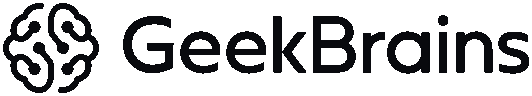
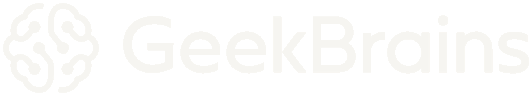
Made dark theme

Changed region(s): [[0.0, 0.0312, 1.0, 0.9688], [0.812, 0.1562, 0.8421, 0.2812]]

diff --git a/AvangardumPersonalWebsite/wwwroot/css/site.css b/AvangardumPersonalWebsite/wwwroot/css/site.css
@@ -13,8 +13,9 @@ html {
   min-height: 100%;
 }
 
-body {
-  margin-bottom: 60px;
+html, body {
+  background-color: #333333;
+  color: #ffffff; /* Set the text color to white */
 }
 
 a.external-website-button {
